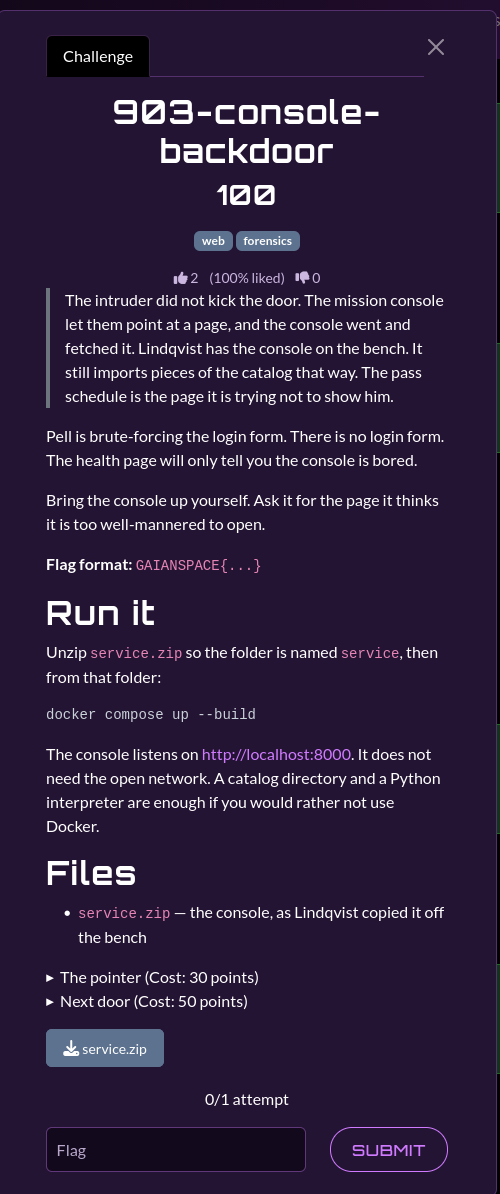
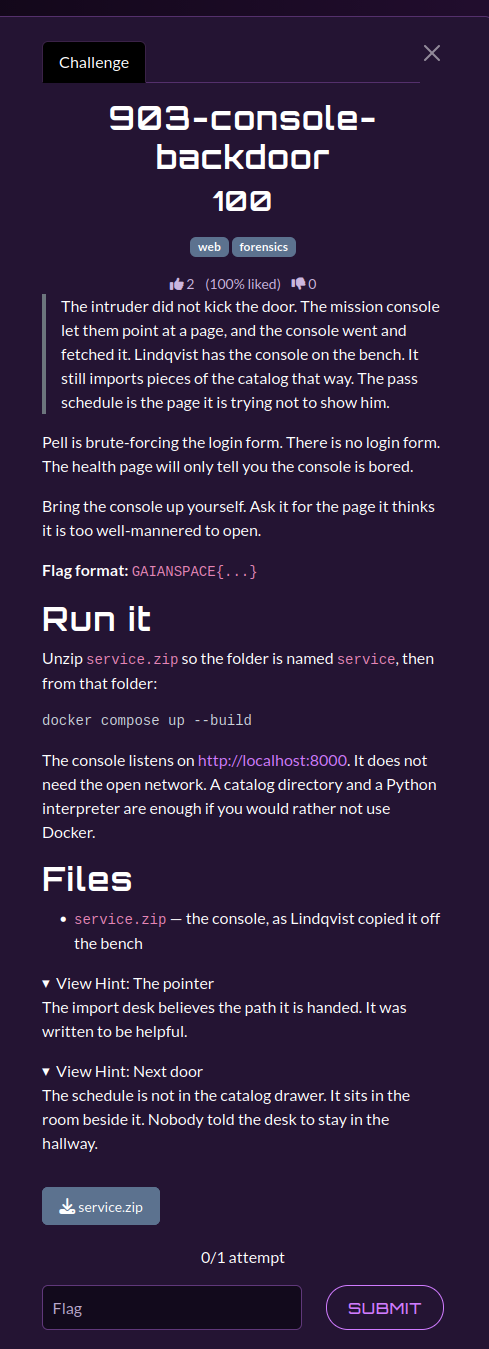
Update README.md

diff --git a/09-dish-wrangler/902-where-was-it-pointing/README.md b/09-dish-wrangler/902-where-was-it-pointing/README.md
@@ -21,6 +21,13 @@ Walk the destinations in the order the dish was sent. The scraps, in that order,
 - `catalog.json` — the sky Kestrel Array is willing to believe
 - `motor_notes.md` — Lindqvist’s card, rewritten twice
 
+## Hints
+
+Two hints were released during the event:
+
+1. **The long orders** — The short lines start the motor and stop it. The lines that name a place are the longer ones.
+2. **Finer than a degree** — The old positioner does not speak in whole degrees. The catalog already stores the angle the motor would be given. East and west are not the same direction.
+
 ## Solution
 
 ### Analysis

diff --git a/09-dish-wrangler/905-hand-on-the-wheel/README.md b/09-dish-wrangler/905-hand-on-the-wheel/README.md
@@ -31,6 +31,13 @@ The console listens on [http://localhost:8000](http://localhost:8000).
 - `slew_protocol.md` — Lindqvist’s notes on how an order is supposed to look
 - `service.zip` — the console, and the sealed copy of the token
 
+## Hints
+
+Two hints were released during the event:
+
+1. **Orders already believed** — Every line in the log was accepted. That is a conversation you can check a guess against.
+2. **After the dot** — The day is painted on the wall. What is missing is the short fraction a clock writes after the dot, and nothing else.
+
 ## Solution
 
 ### Analysis

diff --git a/09-dish-wrangler/904-gotox-maint/README.md b/09-dish-wrangler/904-gotox-maint/README.md
@@ -20,6 +20,13 @@ The token it prints, once it believes you, is what the bridge asked for.
 - `gotox-maint` — the tool, copied off the controller
 - `maint_notes.md` — the drawer card, including the lie
 
+## Hints
+
+Two hints were released during the event:
+
+1. **Ask it properly** — The night shift did not patch the tool. They invoked it, and they passed the key in the open.
+2. **Two stamps** — The key is not a dictionary word. It is two marks the tool already knows, printed into the shape of a nameplate.
+
 ## Solution
 
 ### Analysis

diff --git a/09-dish-wrangler/903-console-backdoor/README.md b/09-dish-wrangler/903-console-backdoor/README.md
@@ -29,6 +29,13 @@ The console listens on [http://localhost:8000](http://localhost:8000). It does n
 
 - `service.zip` — the console, as Lindqvist copied it off the bench
 
+## Hints
+
+Two hints were released during the event:
+
+1. **The pointer** — The import desk believes the path it is handed. It was written to be helpful.
+2. **Next door** — The schedule is not in the catalog drawer. It sits in the room beside it. Nobody told the desk to stay in the hallway.
+
 ## Solution
 
 ### Analysis — Method 1: HTTP Path Traversal

diff --git a/09-dish-wrangler/901-twenty-two-kilohertz/README.md b/09-dish-wrangler/901-twenty-two-kilohertz/README.md
@@ -22,6 +22,13 @@ Read what the motor was told.
 - `coax_tap_22k.wav` — scope tap from the motor coax
 - `diseqc_notes.md` — Lindqvist’s card, coffee on the corner
 
+## Hints
+
+Two hints were released during the event:
+
+1. **The lamp** — Lindqvist says ignore the song. Watch whether the lamp is lit.
+2. **Manners** — A long glow and a short glow are not the same word. He saves one tick in each little group for luck, and luck is not one of the letters.
+
 ## Solution
 
 ### Analysis
